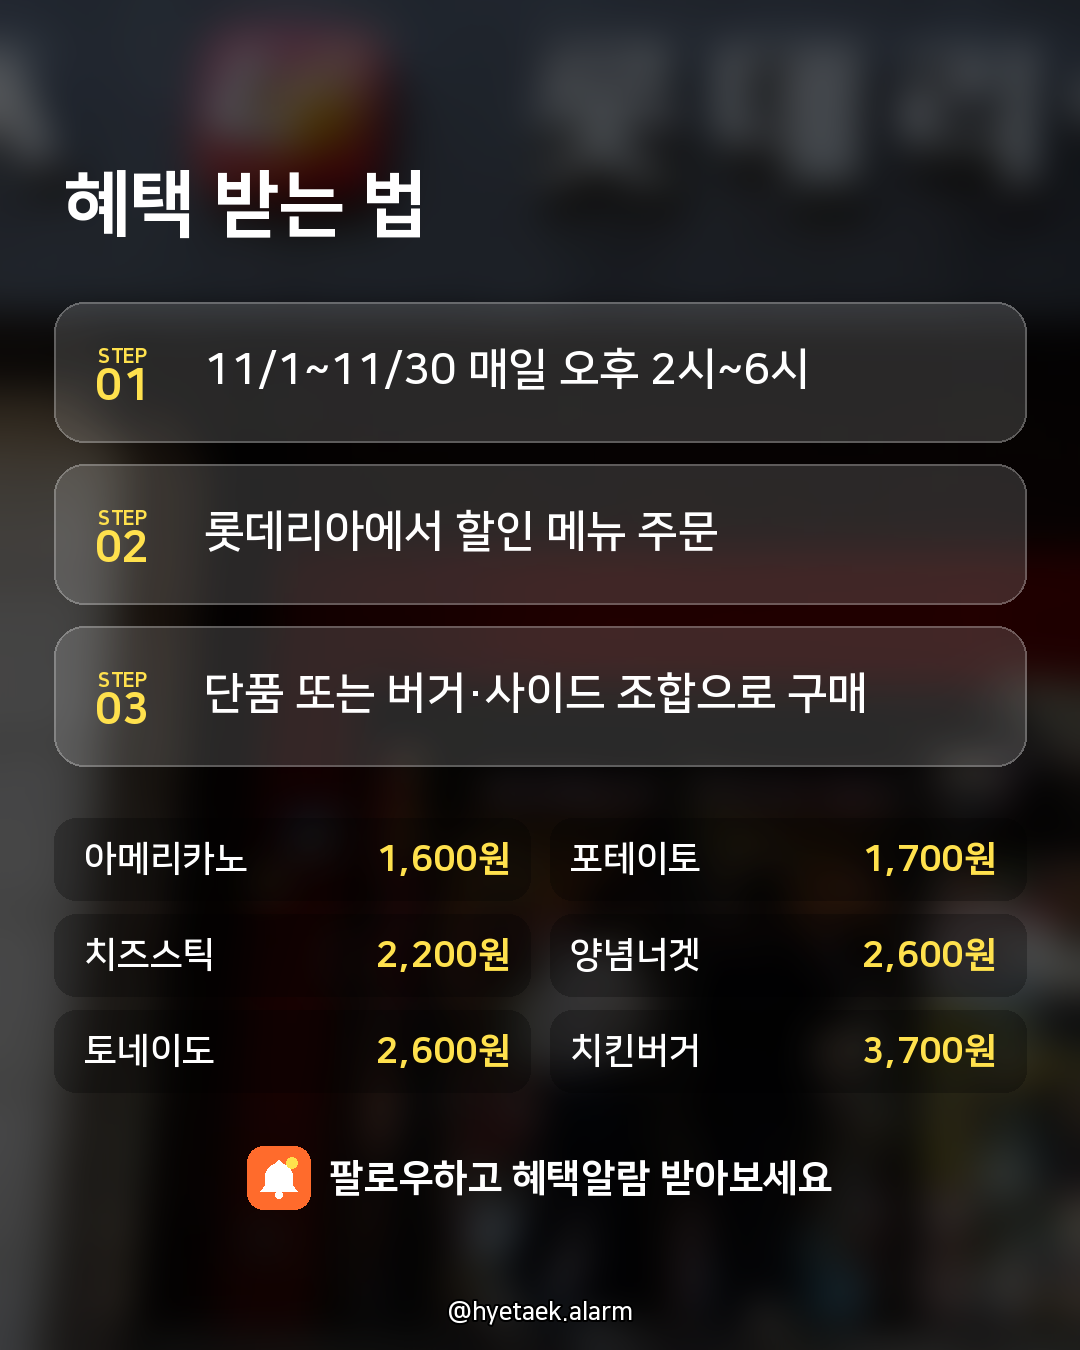
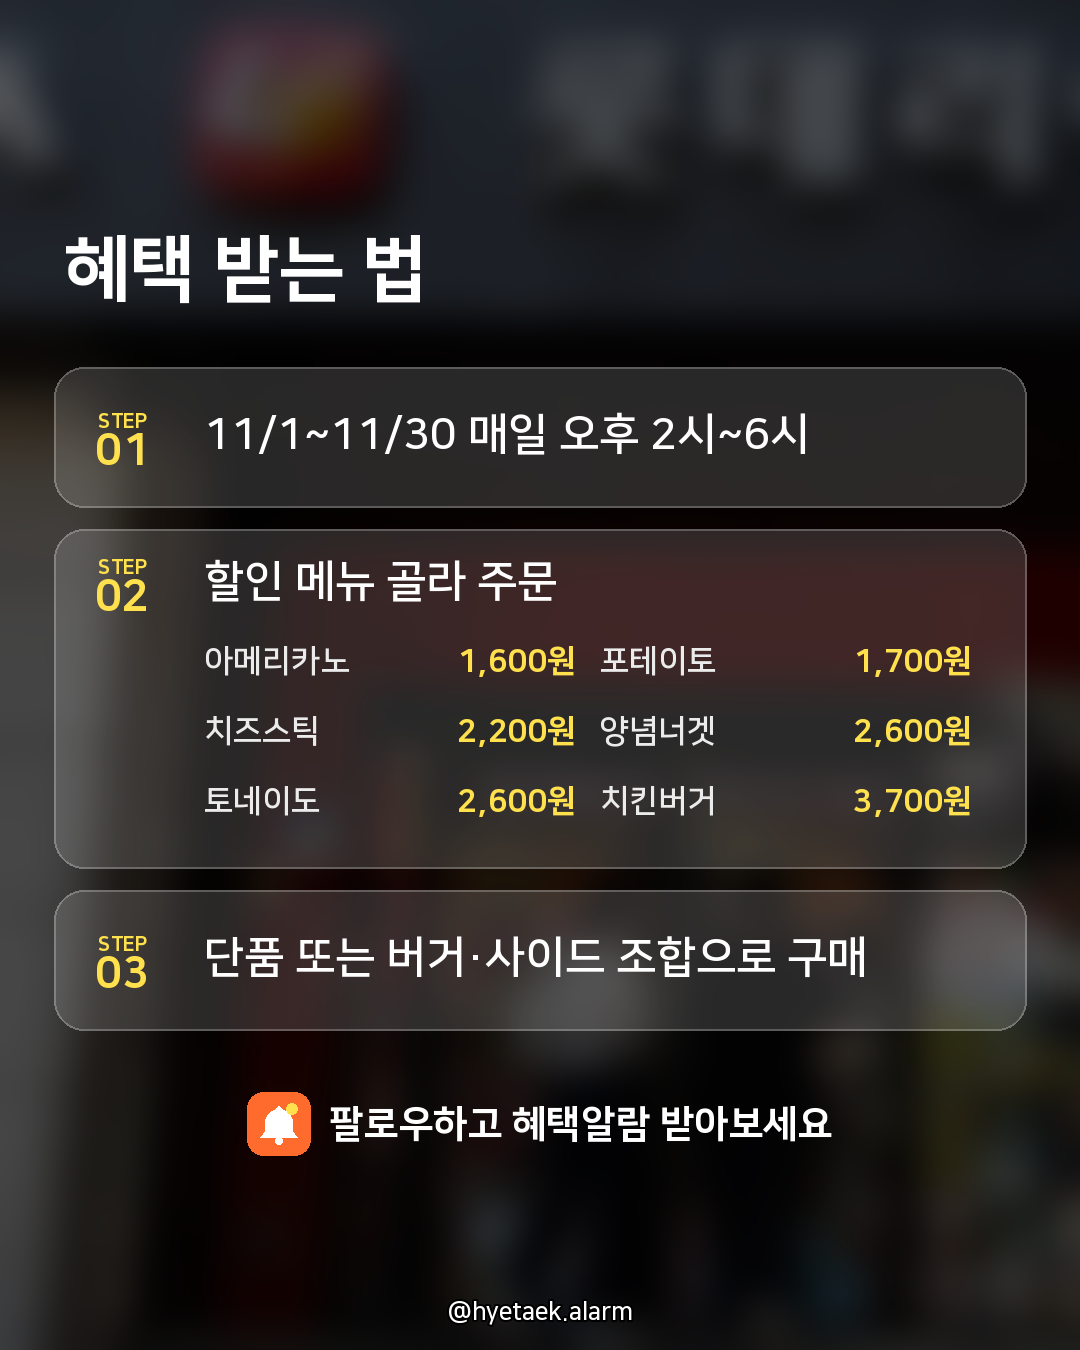
혜택알람 2장: 할인 제품 표를 STEP 박스 안에 ({표} 표시), 롯데리아 STEP 2 적용
Claude-Session: https://claude.ai/code/session_013eU9upJ36tdqKzB4UjrVYH

diff --git a/screendaily/cards.py b/screendaily/cards.py
@@ -1139,19 +1139,24 @@ def render_steps(post: Post, item: Item, idx: int, total: int, config: dict) -> 
     raw = (item.desc or "").split("\n")
     cut = next((i for i, ln in enumerate(raw) if ln.strip() == "---"), len(raw))
     steps = [ln.strip() for ln in raw[:cut] if ln.strip()]
+    host = next((i for i, st in enumerate(steps) if "{표}" in st), -1)   # 이 STEP 박스 안에 할인 제품 표
+    steps = [st.replace("{표}", "").strip() for st in steps]
     info = [ln.split("|", 1) for ln in raw[cut + 1:] if "|" in ln]
     notes = [ln.strip() for ln in raw[cut + 1:] if ln.strip() and "|" not in ln]
     tf, sf, nf = font(EB, 72), font(B, 44), font(B, 34)
     kf, vf = font(EB, 28), font(R, 34)
     step_l = [wrap(st, sf, W - 2 * M - 170) for st in steps]
     step_h = [max(140, block_h(sf, ls) + 56) for ls in step_l]
+    in_cell_h, in_rows = 70, (len(info) + 1) // 2
+    if host >= 0 and info:
+        step_h[host] = block_h(sf, step_l[host]) + 56 + in_rows * in_cell_h + 20
     info_l = [wrap(v.strip(), vf, W - 2 * M - 140) for _, v in info]
     note_l = [wrap(t, nf, W - 2 * M - 40) for t in notes]
     title = item.title or "혜택 받는 법"
     follow = (config.get("outro") or {}).get("inline_follow", "")  # STEP 아래 아이콘 + 팔로우 한 줄
-    grid = len(info) >= 4   # 할인 제품 목록 (제품|할인·가격) → 2열 표
+    grid = len(info) >= 4 and host < 0   # 할인 제품 목록 (제품|할인·가격) → 2열 표 (STEP 밖)
     cell_h, grid_rows = 96, (len(info) + 1) // 2
-    info_h = (40 + grid_rows * cell_h) if grid else (40 + sum(block_h(vf, vl) + 18 for vl in info_l) if info else 0)
+    info_h = (40 + grid_rows * cell_h) if grid else (40 + sum(block_h(vf, vl) + 18 for vl in info_l) if info and host < 0 else 0)
     content = line_h(tf) + 50 + sum(step_h) + 22 * max(0, len(steps) - 1) + (110 if follow else 0) \
         + info_h \
         + (50 + sum(block_h(nf, nl) + 10 for nl in note_l) if notes else 0)
@@ -1165,10 +1170,22 @@ def render_steps(post: Post, item: Item, idx: int, total: int, config: dict) -> 
                                               outline=(255, 255, 255, 90), width=2)
         canvas.alpha_composite(box)
         d = ImageDraw.Draw(canvas)
-        cx, cy = M + 58, y + h / 2
+        cx, cy = M + 58, (y + 28 + block_h(sf, lines) / 2 if (i - 1 == host and info) else y + h / 2)
         d.text((cx, cy - 16), "STEP", font=font(EB, 20), fill=c["hl"], anchor="mm")
         d.text((cx, cy + 14), f"{i:02d}", font=font(EB, 44), fill=c["hl"], anchor="mm")
-        draw_lines(d, lines, sf, M + 140, y + (h - block_h(sf, lines)) / 2, (255, 255, 255))
+        if i - 1 == host and info:  # STEP 박스 안: 문구 + 할인 제품 표
+            draw_lines(d, lines, sf, M + 140, y + 28, (255, 255, 255))
+            gx0, gx1 = M + 140, W - M - 20
+            colw = (gx1 - gx0) / 2
+            gy = y + 28 + block_h(sf, lines) + 16
+            nfnt, pfnt = font(B, 32), font(EB, 32)
+            for j, (k, v) in enumerate(info):
+                x0 = gx0 + (j % 2) * colw
+                yy = gy + (j // 2) * in_cell_h + in_cell_h / 2
+                d.text((x0, yy), k.strip(), font=nfnt, fill=(235, 235, 235), anchor="lm")
+                d.text((x0 + colw - 24, yy), v.strip(), font=pfnt, fill=c["hl"], anchor="rm")
+        else:
+            draw_lines(d, lines, sf, M + 140, y + (h - block_h(sf, lines)) / 2, (255, 255, 255))
         y += h + 22
     if grid:
         y += 30
@@ -1186,7 +1203,7 @@ def render_steps(post: Post, item: Item, idx: int, total: int, config: dict) -> 
             d.text((cx0 + 30, mid), k.strip(), font=nfnt, fill=(255, 255, 255), anchor="lm")
             d.text((cx0 + colw - 30, mid), v.strip(), font=pfnt, fill=c["hl"], anchor="rm")
         y += grid_rows * cell_h
-    elif info:
+    elif info and host < 0:
         y += 18
         for (k, _), vl in zip(info, info_l):
             d.text((M, y + 2), k.strip(), font=kf, fill=c["hl"])

diff --git a/docs/deals_daily.md b/docs/deals_daily.md
@@ -18,7 +18,7 @@ CLAUDE.md 의 혜택알람 규칙을 모두 지킨다. 아래는 그 순서다.
 2. `post.yml`: `draft: true` 로 시작 (사진 고르기 전 업로드 방지). `publish_at: "<오늘> 13:00"`.
    - `title`: `docs/cover_guide.md` 고정 지침대로. 첫 줄 통신사·멤버십·브랜드(10자 이하), 다음 1~2줄 핵심 혜택(줄당 12자 이하), 최대 3줄 (예 `"LG유플러스\n스타벅스\n아메리카노 1+1"`).
    - steps 3개, 그중 하나에 기간 `MM/DD~MM/DD` 필수.
-   - 할인 제품이 여러 개면 STEP 아래에 `---` 줄을 넣고 `제품|할인가` 를 한 줄씩 (4개 이상이면 2열 표로 자동 배치, 최대 6개 권장). 확인된 가격만.
+   - 할인 제품이 여러 개면 `---` 줄 아래에 `제품|할인가` 를 한 줄씩 쓰고, 주문 STEP 문구 끝에 `{표}` 를 붙이면 그 STEP 박스 안에 2열 표로 들어간다 (예: `할인 메뉴 골라 주문 {표}`, 최대 6개 권장). 확인된 가격만.
    - `caption`: 이모지 없이 제목 한 줄 → 기간·대상·혜택·방법 → "세부 조건은 ○○에서 확인하세요." → "팔로우하고 혜택알람 받아보세요". 검색될 키워드(브랜드명·혜택명·무료/할인/쿠폰)를 첫 줄에.
    - `hashtags`: 브랜드·혜택 위주 4개.
    - 맨 위 주석에 확인 날짜와 출처 URL.
